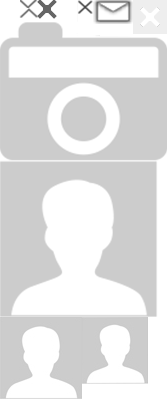
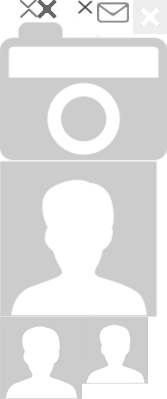
信封图标 浮动背景透明

Changed region(s): [[0.5389, 0.0, 0.8084, 0.0602]]

diff --git a/youxue-pc/src/main/webapp/js/user.js b/youxue-pc/src/main/webapp/js/user.js
@@ -392,28 +392,32 @@ function car(){
         checked_change_li(isChecked);
     });
     $('.a_del').click(function(){
-        var check=$('#car_ul input:checked');
-        if(check.length>0){
-            var str=check.serialize();//发给服务端执行的，服务端返回成功后，执行下边代码
-            login_post('/deleteCartItem.do',str,'',function(data){
-                user_success(JSON.parse(data),function(){
-                    check.each(function(){
-                        var childCheck=$(this);
-                        del_change($(this),childCheck)
+        if(window.confirm('您确定要删除吗？')){
+            var check=$('#car_ul input:checked');
+            if(check.length>0){
+                var str=check.serialize();//发给服务端执行的，服务端返回成功后，执行下边代码
+                login_post('/deleteCartItem.do',str,'',function(data){
+                    user_success(JSON.parse(data),function(){
+                        check.each(function(){
+                            var childCheck=$(this);
+                            del_change($(this),childCheck)
+                        })
                     })
                 })
-            })
+            }
         }
     })
     $('.child_del').click(function(){
-        var This=$(this);
-        var childCheck=$(this).siblings('input[name="campusId"]');
-        var value=childCheck.prop('value');//要删除的ID-//发给服务端执行的，服务端返回成功后，执行下边代码
-        login_post('/deleteCartItem.do','campusId='+value,'',function(data){
-            user_success(JSON.parse(data),function(){
-                del_change(This,childCheck);
+        if(window.confirm('您确定要删除吗？')){
+            var This=$(this);
+            var childCheck=$(this).siblings('input[name="campusId"]');
+            var value=childCheck.prop('value');//要删除的ID-//发给服务端执行的，服务端返回成功后，执行下边代码
+            login_post('/deleteCartItem.do','campusId='+value,'',function(data){
+                user_success(JSON.parse(data),function(){
+                    del_change(This,childCheck);
+                })
             })
-        })
+        }
     })
     //结算
     $('.checkout').click(function(){

diff --git a/youxue-pc/src/main/webapp/about.html b/youxue-pc/src/main/webapp/about.html
@@ -57,7 +57,7 @@
         <p><a href="#mainProduct">常见问题<i></i></a></p>
     </section>
     <section class="right">
-        <div style="text-align:center;"><img src="" alt="" class="j_img"></div>
+        <div class="aboutImg_r"><img src="" alt="" class="j_img"></div>
         <div class="cont_right">
             <div class="right_cont_right icon_circ j_content">
                 
@@ -86,20 +86,20 @@ $(function(){
 window.onhashchange=function(){
     getHash();
 }
-$('.j_list p').click(function(){
-    $(this).addClass('active').siblings('p').removeClass('active');
-})
 function getHash(){
+    $('.j_img').hide();
+    $('.j_content').hide();
     var url=window.location.hash;
     var param=url.split('#')[1];
+    $('.j_list a[href="#'+param+'"]').parent().addClass('active').siblings('p').removeClass('active');
     load_aboutInfo(param);
 }
 function load_aboutInfo(type){
     login_post('/aboutUs.do','type='+(type || 'aboutUs'),'',function(data){
         data=JSON.parse(data);
         if(data.descs){
-            $('.j_img').attr('src',handle_pic(data.imgurl)[0]);
-            $('.j_content').html(data.descs)
+            $('.j_img').attr('src',handle_pic(data.imgurl)[0]).show();
+            $('.j_content').html(data.descs).show();
         }            
     })
 }

diff --git a/youxue-pc/src/main/webapp/user_message.html b/youxue-pc/src/main/webapp/user_message.html
@@ -163,17 +163,19 @@
             }
         })
         $('#delete').click(function(){
-            var checked=$('#message_ul input[type="checkbox"]:checked');
-            var childCheck=checked.serialize();
-            
-            login_post('/uc/delmessage.do',childCheck,'',function(data){
-                data=JSON.parse(data);
-                user_success(data,function(){
-                    checked.each(function(){
-                        $(this).closest('li').hide();
+            if(window.confirm('您确定要删除所选的消息吗？')){
+                var checked=$('#message_ul input[type="checkbox"]:checked');
+                var childCheck=checked.serialize();
+                
+                login_post('/uc/delmessage.do',childCheck,'',function(data){
+                    data=JSON.parse(data);
+                    user_success(data,function(){
+                        checked.each(function(){
+                            $(this).closest('li').hide();
+                        })
                     })
                 })
-            })
+            }
         })
         $('#signRead').click(function(){
             var checked=$('#message_ul input[type="checkbox"]:checked');

diff --git a/youxue-pc/src/main/webapp/css/style.css b/youxue-pc/src/main/webapp/css/style.css
@@ -78,7 +78,7 @@ input:-ms-input-placeholder, textarea:-ms-input-placeholder{color:#999;}
 #showImg_left i{background-position:0 -52px;}
 #showImg_right{right:10px;}
 #showImg_right i{background-position:-33px -52px;}
-#right_float{position:fixed;right:20px;top:50%;margin-top:-249.5px;width:108px;background:#666;display:none;z-index:990;}
+#right_float{position:fixed;right:20px;top:50%;margin-top:-249.5px;width:108px;background: rgba(0,0,0,.4);display:none;z-index:990;}
 #right_float a{position:relative;display:block;height:100px;border-bottom:solid 1px #999;transition:.6s;}
 #right_float a:hover{background:#29abe2;border-color:#fff;}
 #right_float a i{position:absolute;left:22px;top:23px;width:60px;height:40px;background:url("../img/index.png") -3px -84px no-repeat;transform: scale(0.9);}

diff --git a/youxue-pc/src/main/webapp/css/news.css b/youxue-pc/src/main/webapp/css/news.css
@@ -25,6 +25,8 @@
 .news_content{}
 .news_content h1{line-height:50px;text-align:center;font-size:26px;}
 /*about*/
+.aboutImg_r{text-align:center;}
+.aboutImg_r img{max-width:100%;}
 .content.content_qg .left i{background: #eaeff5;}
 .content.content_qg .right{padding:13px 20px 14px 17px;width:907px;height:100%;background:#eaeff5;}
 .cont_right{padding:11px 22px 0;}
